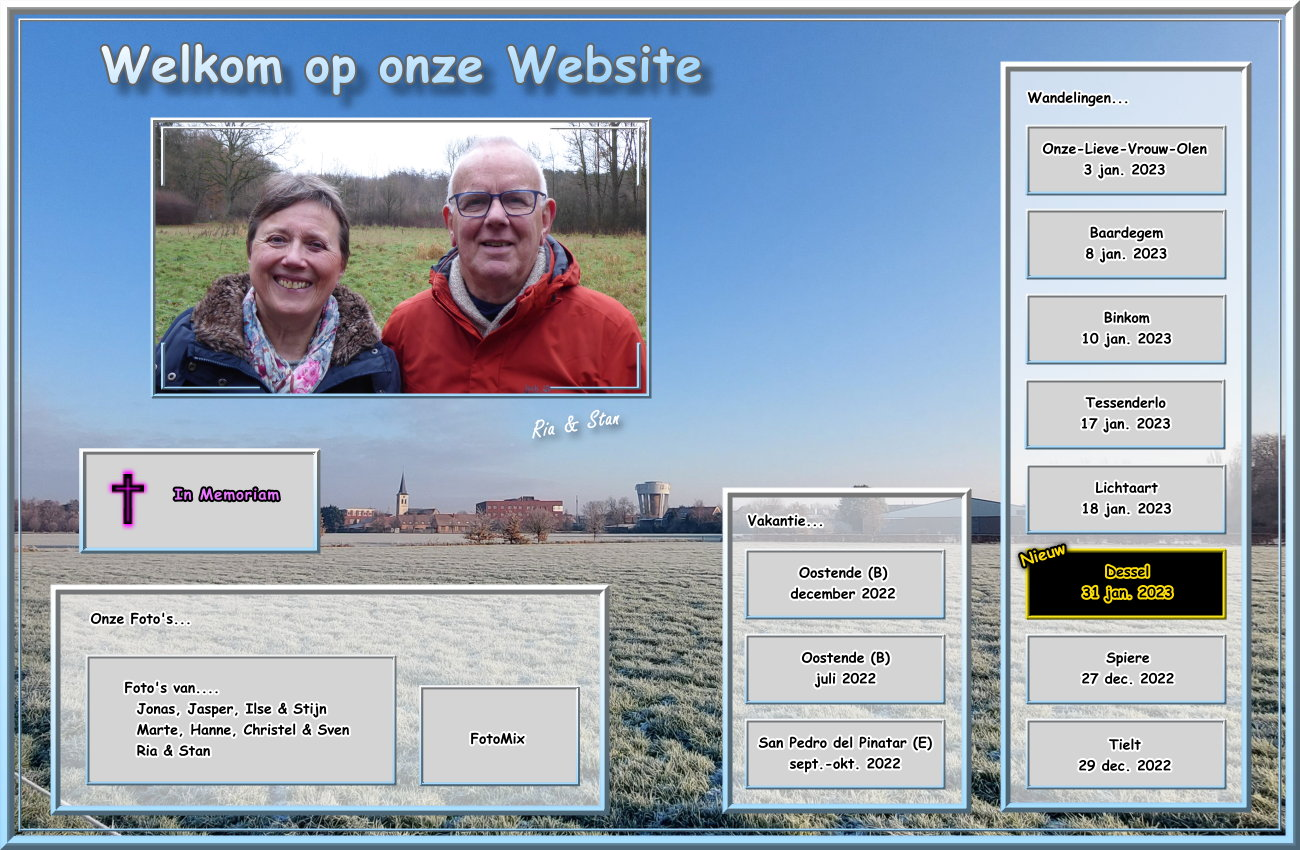
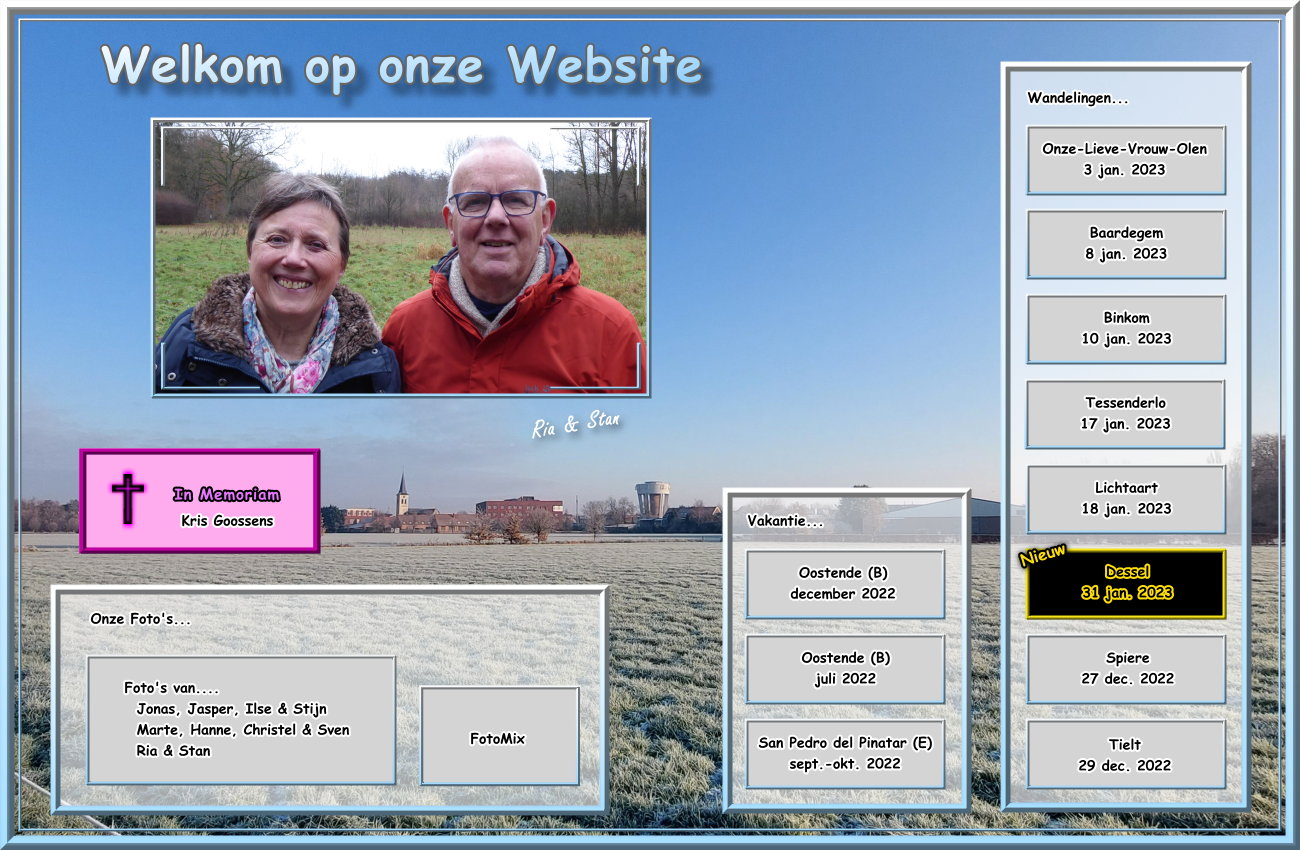
Kris

Changed region(s): [[0.0615, 0.52, 0.2462, 0.6729]]

diff --git a/_vti_cnf/in_memoriam.htm b/_vti_cnf/in_memoriam.htm
@@ -1,18 +1,18 @@
 vti_encoding:SR|utf8-nl
 vti_author:SR|HOME-PC\\Stan Claes
 vti_modifiedby:SR|PC-Home\\Stan
-vti_timelastmodified:TR|05 Jan 2023 18:16:11 -0000
+vti_timelastmodified:TR|01 Feb 2023 08:35:17 -0000
 vti_timecreated:TR|19 Mar 2010 12:04:13 -0000
 vti_title:SR|In Memoriam
 vti_extenderversion:SR|6.0.2.5516
 vti_backlinkinfo:VX|index.htm in_memoriam.htm
-vti_nexttolasttimemodified:TW|05 Jan 2023 18:08:04 -0000
-vti_cacheddtm:TX|05 Jan 2023 18:16:11 -0000
-vti_filesize:IR|5126
+vti_nexttolasttimemodified:TW|05 Jan 2023 18:16:11 -0000
+vti_cacheddtm:TX|01 Feb 2023 08:35:17 -0000
+vti_filesize:IR|5236
 vti_cachedtitle:SR|In Memoriam
 vti_cachedbodystyle:SR|<body background="Fotomap/in_memoriam/in_memoriam_back.jpg" style="background-attachment: fixed" leftmargin="150" rightmargin="150">
-vti_cachedlinkinfo:VX|S|Fotomap/in_memoriam/in_memoriam_back.jpg H|index.htm S|Fotomap/in_memoriam/naam.png S|Fotomap/in_memoriam/josebollen.png S|Fotomap/in_memoriam/raymondebauwens.png S|Fotomap/in_memoriam/mariellepickaert.png S|Fotomap/in_memoriam/vers.png S|Fotomap/in_memoriam/evacarrillo.png S|Fotomap/in_memoriam/germainebollen.png S|Fotomap/in_memoriam/jeanmatthyssens.png S|Fotomap/in_memoriam/swaverlinden.png S|Fotomap/in_memoriam/arthurwouters.png S|Fotomap/in_memoriam/hildabakelants.png S|Fotomap/in_memoriam/alicebollen.png S|Fotomap/in_memoriam/brunhildemayer.png S|Fotomap/in_memoriam/blanco.png S|Fotomap/in_memoriam/germainestukkens.png S|Fotomap/in_memoriam/jossmeuninx.png S|Fotomap/in_memoriam/marcelkeller.png S|Fotomap/in_memoriam/blanco.png S|Fotomap/in_memoriam/frankvereycken.png S|Fotomap/in_memoriam/blanco.png S|Fotomap/in_memoriam/wilfriedvandenabbeele.png S|Fotomap/in_memoriam/rikluyckx.png S|Fotomap/in_memoriam/rikvercammen.png S|Fotomap/in_memoriam/blanco.png S|Fotomap/in_memoriam/raymondniewold.png S|Fotomap/in_memoriam/rosaliedirix.png S|Fotomap/in_memoriam/albertschelvis.png S|Fotomap/in_memoriam/thildawuyts.png S|Fotomap/in_memoriam/hubertdescrevel.png S|Fotomap/in_memoriam/albertebollen.png S|Fotomap/in_memoriam/blanco.png S|Fotomap/in_memoriam/deniscrollet.png S|Fotomap/in_memoriam/louisdewolf.png S|Fotomap/in_memoriam/blanco.png S|Fotomap/in_memoriam/freddynyberg.png K|in_memoriam.htm S|Fotomap/in_memoriam/terugbegin.png K|in_memoriam.htm
-vti_cachedsvcrellinks:VX|FSUS|Fotomap/in_memoriam/in_memoriam_back.jpg FHUS|index.htm FSUS|Fotomap/in_memoriam/naam.png FSUS|Fotomap/in_memoriam/josebollen.png FSUS|Fotomap/in_memoriam/raymondebauwens.png FSUS|Fotomap/in_memoriam/mariellepickaert.png FSUS|Fotomap/in_memoriam/vers.png FSUS|Fotomap/in_memoriam/evacarrillo.png FSUS|Fotomap/in_memoriam/germainebollen.png FSUS|Fotomap/in_memoriam/jeanmatthyssens.png FSUS|Fotomap/in_memoriam/swaverlinden.png FSUS|Fotomap/in_memoriam/arthurwouters.png FSUS|Fotomap/in_memoriam/hildabakelants.png FSUS|Fotomap/in_memoriam/alicebollen.png FSUS|Fotomap/in_memoriam/brunhildemayer.png FSUS|Fotomap/in_memoriam/blanco.png FSUS|Fotomap/in_memoriam/germainestukkens.png FSUS|Fotomap/in_memoriam/jossmeuninx.png FSUS|Fotomap/in_memoriam/marcelkeller.png FSUS|Fotomap/in_memoriam/blanco.png FSUS|Fotomap/in_memoriam/frankvereycken.png FSUS|Fotomap/in_memoriam/blanco.png FSUS|Fotomap/in_memoriam/wilfriedvandenabbeele.png FSUS|Fotomap/in_memoriam/rikluyckx.png FSUS|Fotomap/in_memoriam/rikvercammen.png FSUS|Fotomap/in_memoriam/blanco.png FSUS|Fotomap/in_memoriam/raymondniewold.png FSUS|Fotomap/in_memoriam/rosaliedirix.png FSUS|Fotomap/in_memoriam/albertschelvis.png FSUS|Fotomap/in_memoriam/thildawuyts.png FSUS|Fotomap/in_memoriam/hubertdescrevel.png FSUS|Fotomap/in_memoriam/albertebollen.png FSUS|Fotomap/in_memoriam/blanco.png FSUS|Fotomap/in_memoriam/deniscrollet.png FSUS|Fotomap/in_memoriam/louisdewolf.png FSUS|Fotomap/in_memoriam/blanco.png FSUS|Fotomap/in_memoriam/freddynyberg.png FKUS|in_memoriam.htm FSUS|Fotomap/in_memoriam/terugbegin.png FKUS|in_memoriam.htm
+vti_cachedlinkinfo:VX|S|Fotomap/in_memoriam/in_memoriam_back.jpg H|index.htm S|Fotomap/in_memoriam/naam.png S|Fotomap/in_memoriam/krisgoossens.png S|Fotomap/in_memoriam/josebollen.png S|Fotomap/in_memoriam/raymondebauwens.png S|Fotomap/in_memoriam/mariellepickaert.png S|Fotomap/in_memoriam/vers.png S|Fotomap/in_memoriam/evacarrillo.png S|Fotomap/in_memoriam/germainebollen.png S|Fotomap/in_memoriam/jeanmatthyssens.png S|Fotomap/in_memoriam/blanco.png S|Fotomap/in_memoriam/swaverlinden.png S|Fotomap/in_memoriam/arthurwouters.png S|Fotomap/in_memoriam/hildabakelants.png S|Fotomap/in_memoriam/alicebollen.png S|Fotomap/in_memoriam/brunhildemayer.png S|Fotomap/in_memoriam/germainestukkens.png S|Fotomap/in_memoriam/jossmeuninx.png S|Fotomap/in_memoriam/marcelkeller.png S|Fotomap/in_memoriam/blanco.png S|Fotomap/in_memoriam/frankvereycken.png S|Fotomap/in_memoriam/blanco.png S|Fotomap/in_memoriam/wilfriedvandenabbeele.png S|Fotomap/in_memoriam/rikluyckx.png S|Fotomap/in_memoriam/rikvercammen.png S|Fotomap/in_memoriam/blanco.png S|Fotomap/in_memoriam/raymondniewold.png S|Fotomap/in_memoriam/rosaliedirix.png S|Fotomap/in_memoriam/albertschelvis.png S|Fotomap/in_memoriam/thildawuyts.png S|Fotomap/in_memoriam/hubertdescrevel.png S|Fotomap/in_memoriam/albertebollen.png S|Fotomap/in_memoriam/blanco.png S|Fotomap/in_memoriam/deniscrollet.png S|Fotomap/in_memoriam/louisdewolf.png S|Fotomap/in_memoriam/blanco.png S|Fotomap/in_memoriam/freddynyberg.png K|in_memoriam.htm S|Fotomap/in_memoriam/terugbegin.png K|in_memoriam.htm
+vti_cachedsvcrellinks:VX|FSUS|Fotomap/in_memoriam/in_memoriam_back.jpg FHUS|index.htm FSUS|Fotomap/in_memoriam/naam.png FSUS|Fotomap/in_memoriam/krisgoossens.png FSUS|Fotomap/in_memoriam/josebollen.png FSUS|Fotomap/in_memoriam/raymondebauwens.png FSUS|Fotomap/in_memoriam/mariellepickaert.png FSUS|Fotomap/in_memoriam/vers.png FSUS|Fotomap/in_memoriam/evacarrillo.png FSUS|Fotomap/in_memoriam/germainebollen.png FSUS|Fotomap/in_memoriam/jeanmatthyssens.png FSUS|Fotomap/in_memoriam/blanco.png FSUS|Fotomap/in_memoriam/swaverlinden.png FSUS|Fotomap/in_memoriam/arthurwouters.png FSUS|Fotomap/in_memoriam/hildabakelants.png FSUS|Fotomap/in_memoriam/alicebollen.png FSUS|Fotomap/in_memoriam/brunhildemayer.png FSUS|Fotomap/in_memoriam/germainestukkens.png FSUS|Fotomap/in_memoriam/jossmeuninx.png FSUS|Fotomap/in_memoriam/marcelkeller.png FSUS|Fotomap/in_memoriam/blanco.png FSUS|Fotomap/in_memoriam/frankvereycken.png FSUS|Fotomap/in_memoriam/blanco.png FSUS|Fotomap/in_memoriam/wilfriedvandenabbeele.png FSUS|Fotomap/in_memoriam/rikluyckx.png FSUS|Fotomap/in_memoriam/rikvercammen.png FSUS|Fotomap/in_memoriam/blanco.png FSUS|Fotomap/in_memoriam/raymondniewold.png FSUS|Fotomap/in_memoriam/rosaliedirix.png FSUS|Fotomap/in_memoriam/albertschelvis.png FSUS|Fotomap/in_memoriam/thildawuyts.png FSUS|Fotomap/in_memoriam/hubertdescrevel.png FSUS|Fotomap/in_memoriam/albertebollen.png FSUS|Fotomap/in_memoriam/blanco.png FSUS|Fotomap/in_memoriam/deniscrollet.png FSUS|Fotomap/in_memoriam/louisdewolf.png FSUS|Fotomap/in_memoriam/blanco.png FSUS|Fotomap/in_memoriam/freddynyberg.png FKUS|in_memoriam.htm FSUS|Fotomap/in_memoriam/terugbegin.png FKUS|in_memoriam.htm
 vti_cachedneedsrewrite:BR|false
 vti_cachedhasbots:BR|false
 vti_cachedhastheme:BR|false

diff --git a/in_memoriam.htm b/in_memoriam.htm
@@ -49,25 +49,26 @@ text-decoration: none;
 
 </div>
 <p align="center">
-<img border="0" src="Fotomap/in_memoriam/josebollen.png" width="200" height="300">
+<img border="0" src="Fotomap/in_memoriam/krisgoossens.png" width="200" height="300">
 </p>
 
 <hr color="#CD036F">
 
 <p align="center">
 &nbsp;
+<img border="0" src="Fotomap/in_memoriam/josebollen.png" width="200" height="300">&nbsp;&nbsp;&nbsp;&nbsp;
 <img border="0" src="Fotomap/in_memoriam/raymondebauwens.png" width="200" height="300">&nbsp;&nbsp;&nbsp;&nbsp;
 <img border="0" src="Fotomap/in_memoriam/mariellepickaert.png" width="200" height="300">&nbsp;&nbsp;&nbsp;&nbsp;
 <img border="0" src="Fotomap/in_memoriam/vers.png" width="420" height="300">&nbsp;&nbsp;&nbsp;&nbsp;
 <img border="0" src="Fotomap/in_memoriam/evacarrillo.png" width="200" height="300">&nbsp;&nbsp;&nbsp;&nbsp;
 <img border="0" src="Fotomap/in_memoriam/germainebollen.png" width="200" height="300">&nbsp;&nbsp;&nbsp;&nbsp;
 <img border="0" src="Fotomap/in_memoriam/jeanmatthyssens.png" width="200" height="300">&nbsp;&nbsp;&nbsp;&nbsp;
+<img border="0" src="Fotomap/in_memoriam/blanco.png" width="200" height="300">&nbsp;&nbsp;&nbsp;&nbsp;
 <img border="0" src="Fotomap/in_memoriam/swaverlinden.png" width="200" height="300">&nbsp;&nbsp;&nbsp;&nbsp;
 <img border="0" src="Fotomap/in_memoriam/arthurwouters.png" width="200" height="300">&nbsp;&nbsp;&nbsp;&nbsp;
 <img border="0" src="Fotomap/in_memoriam/hildabakelants.png" width="200" height="300">&nbsp;&nbsp;&nbsp;&nbsp;
 <img border="0" src="Fotomap/in_memoriam/alicebollen.png" width="200" height="300">&nbsp;&nbsp;&nbsp;&nbsp;
 <img border="0" src="Fotomap/in_memoriam/brunhildemayer.png" width="200" height="300">&nbsp;&nbsp;&nbsp;&nbsp;
-<img border="0" src="Fotomap/in_memoriam/blanco.png" width="200" height="300">&nbsp;&nbsp;&nbsp;&nbsp;
 <img border="0" src="Fotomap/in_memoriam/germainestukkens.png" width="200" height="300">&nbsp;&nbsp;&nbsp;&nbsp;
 <img border="0" src="Fotomap/in_memoriam/jossmeuninx.png" width="200" height="300">&nbsp;&nbsp;&nbsp;&nbsp;
 <img border="0" src="Fotomap/in_memoriam/marcelkeller.png" width="200" height="300">&nbsp;&nbsp;&nbsp;&nbsp;
